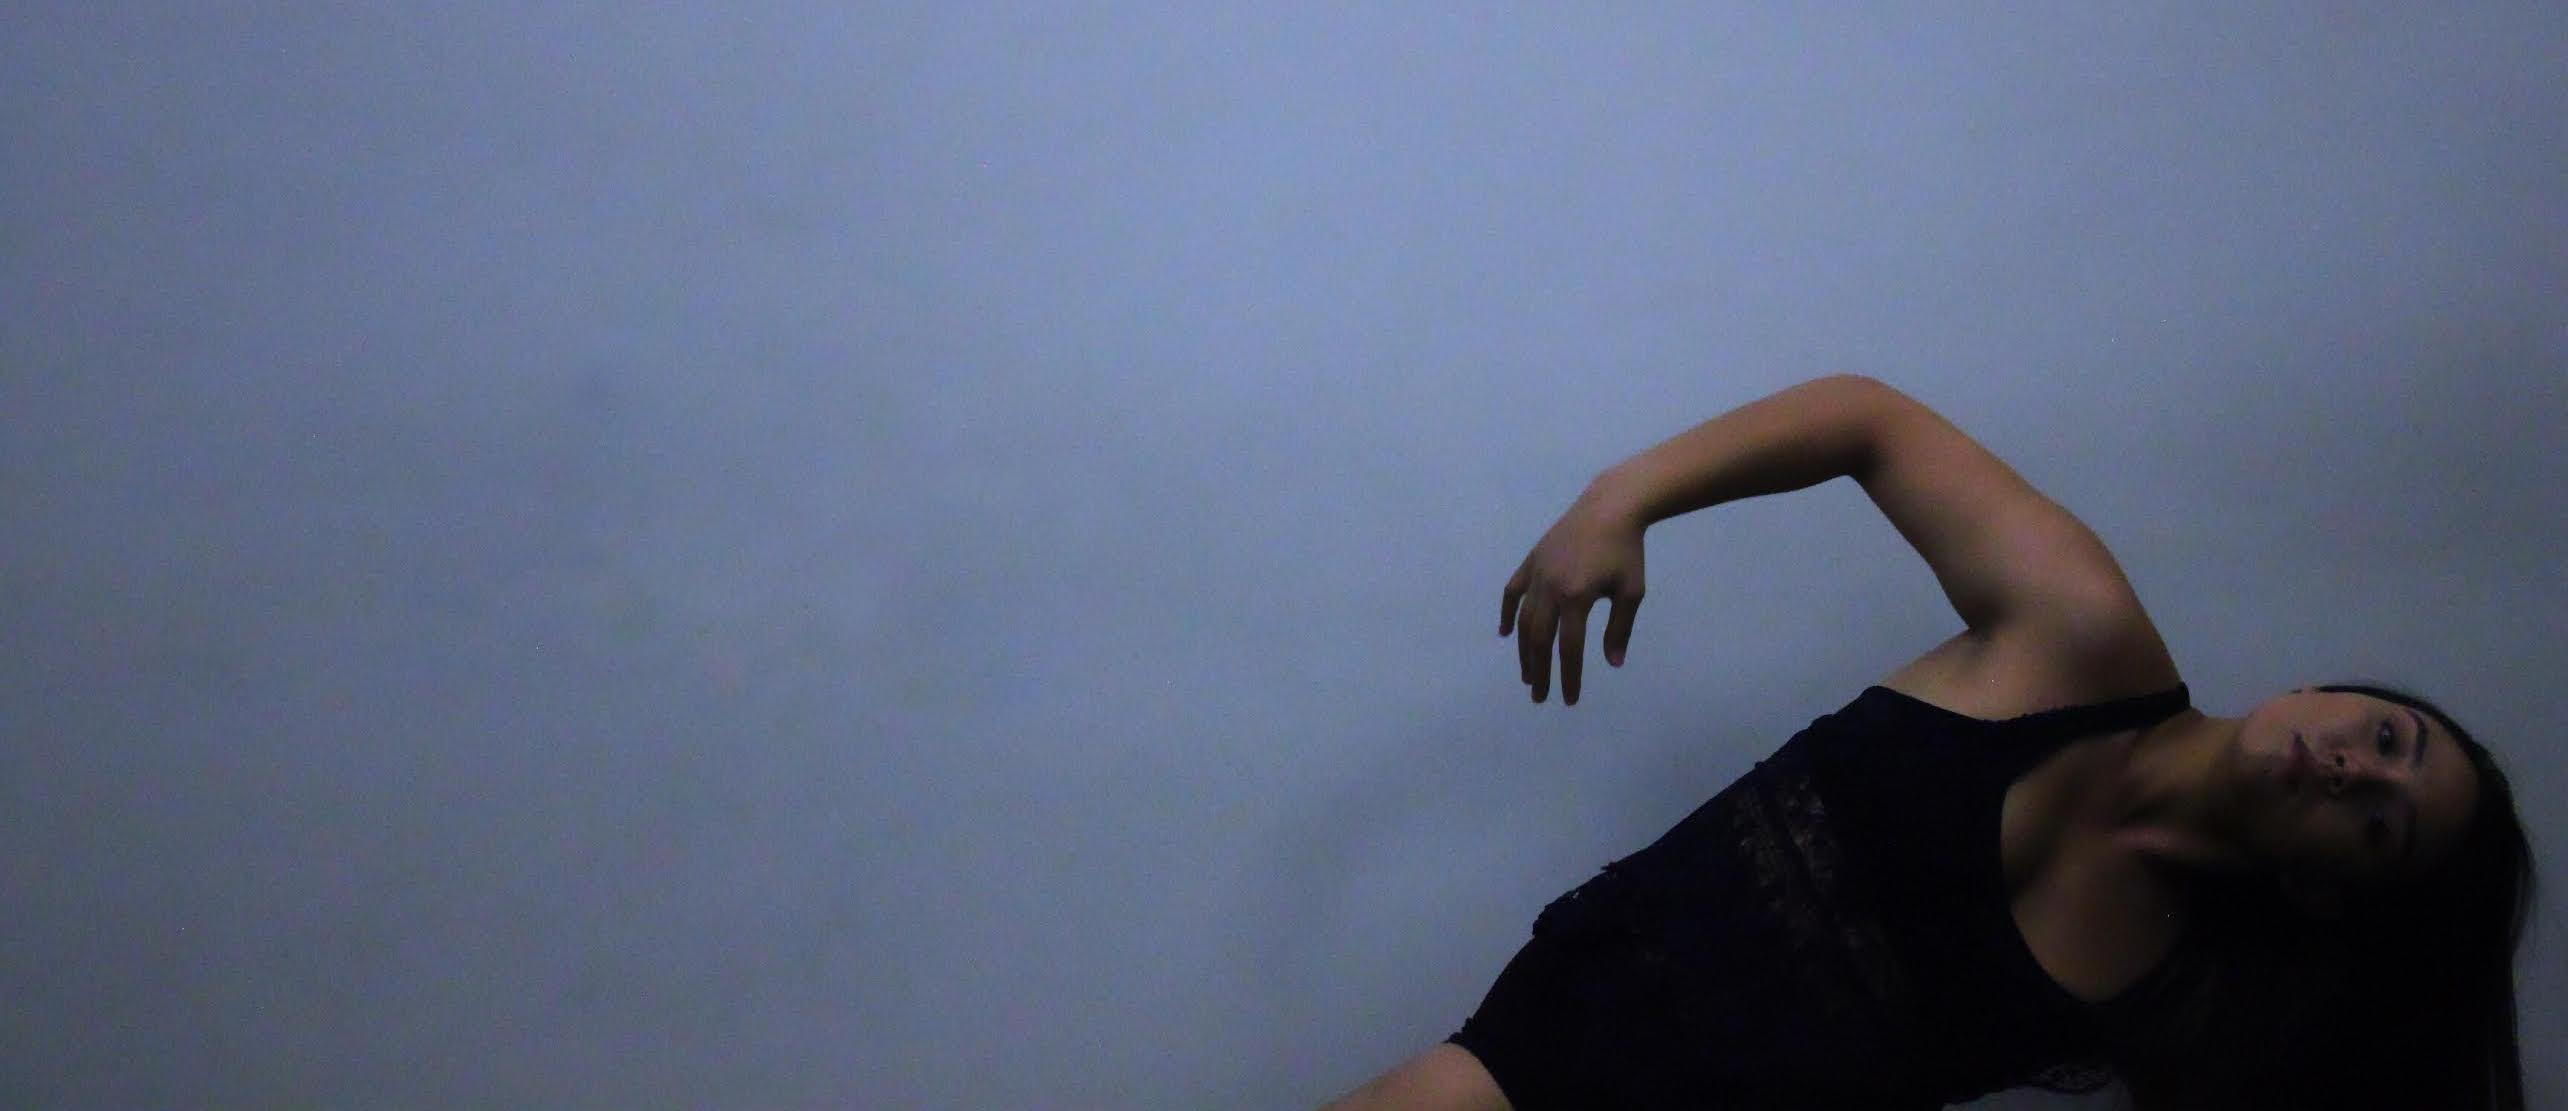
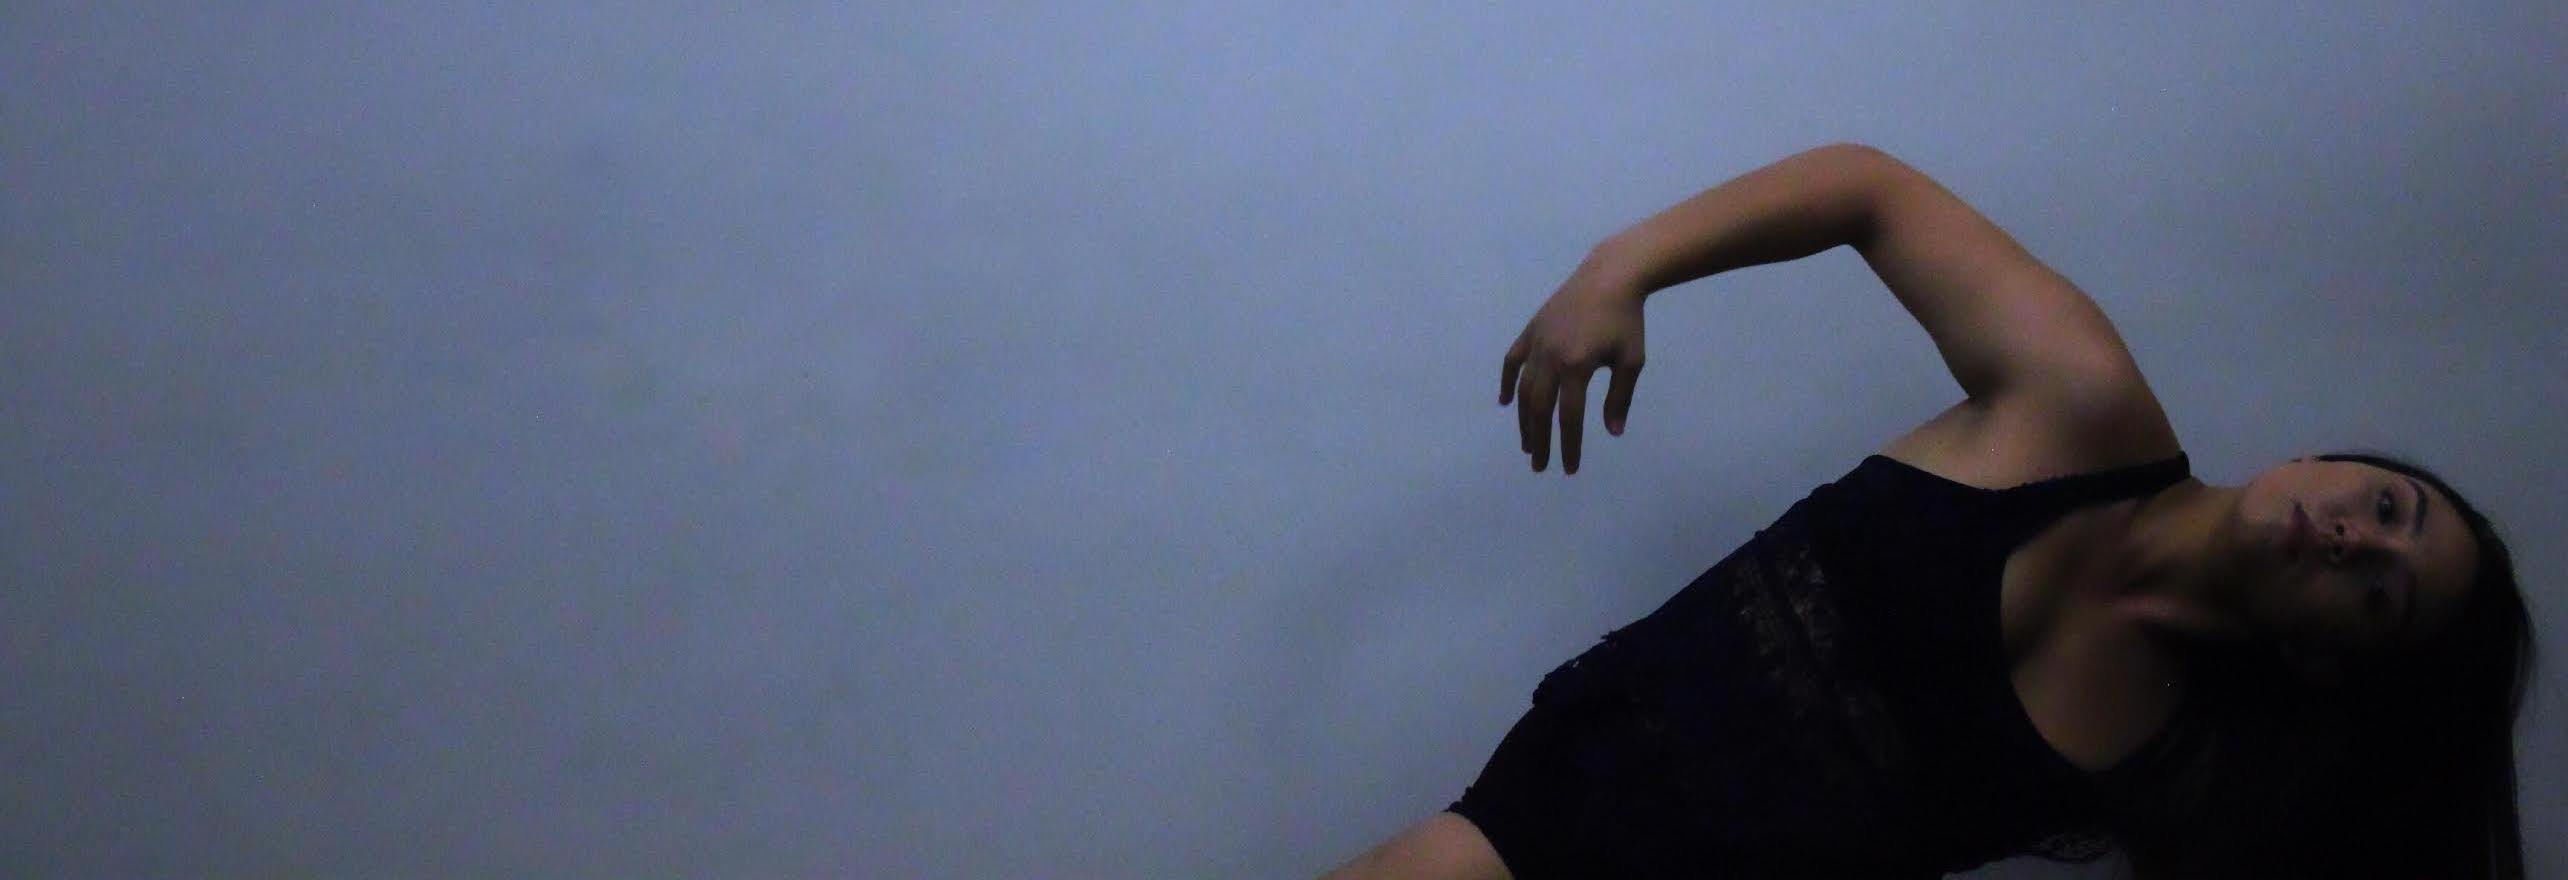
mobile pics

diff --git a/src/App.js b/src/App.js
@@ -35,10 +35,15 @@ const App = () => (
                 <div className="App">
                     <span className="hidden-images">
                         <img src="/images/Opener.jpg" />
+                        <img src="/images/Opener-mobile.jpg" />
                         <img src="/images/1-5.jpeg" />
                         <img src="/images/1-7.jpeg" />
                         <img src="/images/1-8.jpeg" />
                         <img src="/images/1-9.jpeg" />
+                        <img src="/images/1-5-mobile.jpeg" />
+                        <img src="/images/1-7-mobile.jpeg" />
+                        <img src="/images/1-8-mobile.jpeg" />
+                        <img src="/images/1-9-mobile.jpeg" />
                     </span>
                     <Route path="/" exact component={Home} />
                     <Route path="/about" component={About} />
